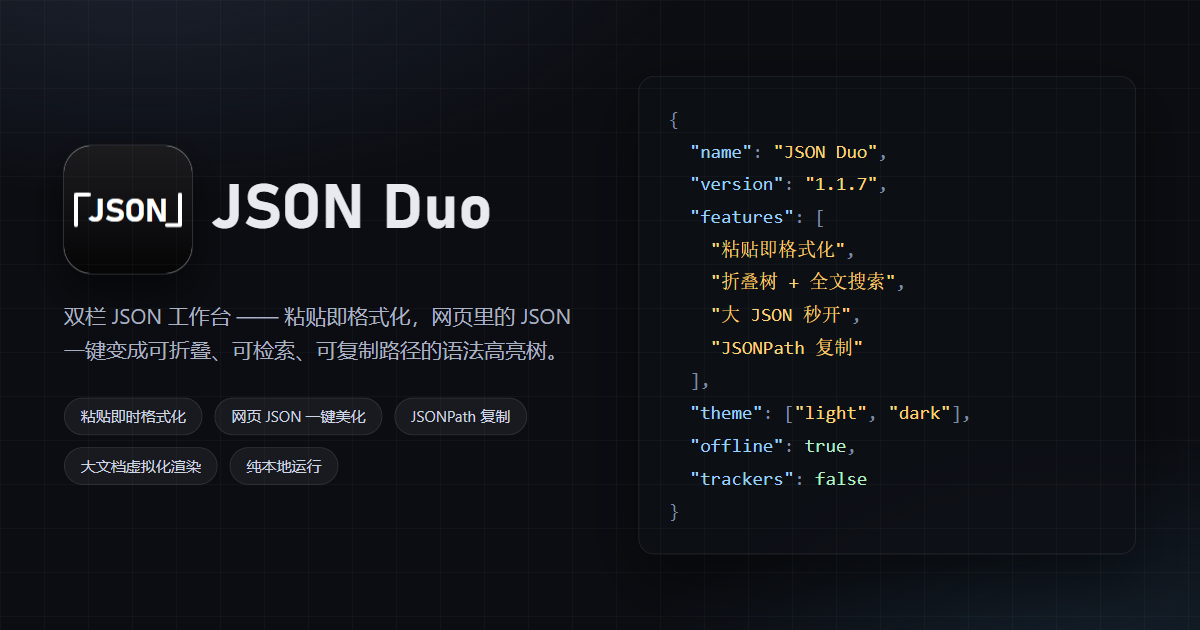
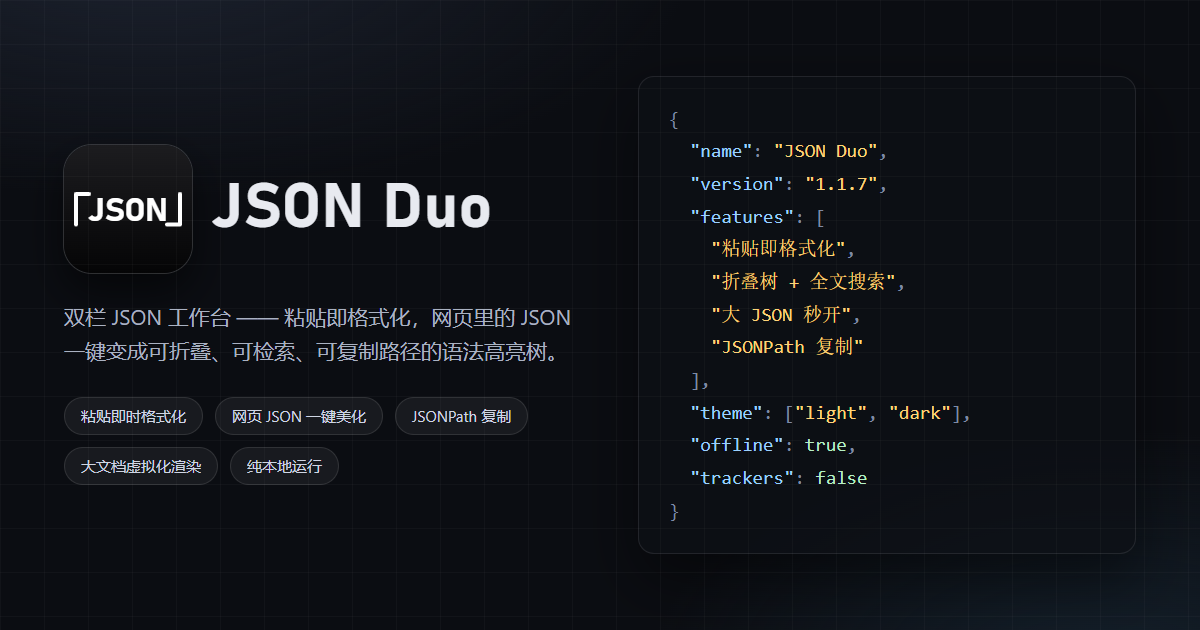
deploy: 深色主题一致性 + 图标白边修复上线（构建号 db88724c）
两处修复合并到一次部署：

- 深色主题一致性。系统深色时右栏树视图不跟着变深 —— viewer.js 里 applyTheme()
  读的媒体查询句柄声明在文档靠后，createViewer() 最前面就调用它，那一刻还是
  声明提升出来的 undefined，'auto' 于是恒折算成浅色。修法：句柄声明挪到
  createViewer() 顶部。同一根源还有一处镜像问题：手动选浅色时 applyPageTheme
  是删掉 <html data-theme> 属性而不是显式写 "light"，:not([data-theme="light"])
  照样命中深色块，变成「整页深、右栏浅」。两条都只在刷新后的首帧暴露。
- 图标圆角外白边修复，favicon 与 og-image 一并重出。

构建号 d5a8743c → db88724c，app.html / index.html / privacy.html 的引用随之更新，
上一代构建目录按惯例清理。

diff --git a/app.html b/app.html
@@ -12,9 +12,9 @@
   <meta property="og:description" content="双栏 JSON 工作台：左栏粘贴原文、右栏实时预览，可折叠树、搜索、JSONPath 复制，纯本地运行。">
   <meta property="og:image" content="https://lr3699.github.io/json-formatter-pro/og-image.png">
   <meta name="twitter:card" content="summary_large_image">
-  <link rel="icon" href="favicon.png?v=d5a8743c" type="image/png">
-  <link rel="stylesheet" href="assets/d5a8743c/editor.css">
-  <link rel="stylesheet" href="app.css?v=d5a8743c">
+  <link rel="icon" href="favicon.png?v=db88724c" type="image/png">
+  <link rel="stylesheet" href="assets/db88724c/editor.css">
+  <link rel="stylesheet" href="app.css?v=db88724c">
 </head>
 <body>
   <div class="aurora" aria-hidden="true">
@@ -25,7 +25,7 @@
 
   <header class="topbar">
     <div class="brand">
-      <img class="brand-mark" src="favicon.png?v=d5a8743c" alt="" width="32" height="32">
+      <img class="brand-mark" src="favicon.png?v=db88724c" alt="" width="32" height="32">
       <span class="brand-text">
         <b>JSON Duo</b>
         <em>粘贴即格式化 · 在线免安装</em>
@@ -216,14 +216,14 @@
     </section>
   </aside>
 
-  <script src="assets/d5a8743c/codemirror.bundle.js"></script>
-  <script src="assets/d5a8743c/defaults.js"></script>
-  <script src="assets/web-storage.js?v=d5a8743c"></script>
-  <script src="assets/d5a8743c/json-parser.js"></script>
-  <script src="assets/d5a8743c/rowmodel.js"></script>
-  <script src="assets/d5a8743c/viewer.js"></script>
-  <script src="assets/d5a8743c/bigview.js"></script>
-  <script src="assets/d5a8743c/editor.js"></script>
-  <script src="assets/web-settings.js?v=d5a8743c"></script>
+  <script src="assets/db88724c/codemirror.bundle.js"></script>
+  <script src="assets/db88724c/defaults.js"></script>
+  <script src="assets/web-storage.js?v=db88724c"></script>
+  <script src="assets/db88724c/json-parser.js"></script>
+  <script src="assets/db88724c/rowmodel.js"></script>
+  <script src="assets/db88724c/viewer.js"></script>
+  <script src="assets/db88724c/bigview.js"></script>
+  <script src="assets/db88724c/editor.js"></script>
+  <script src="assets/web-settings.js?v=db88724c"></script>
 </body>
 </html>

diff --git a/assets/db88724c/viewer.js b/assets/db88724c/viewer.js
@@ -431,6 +431,16 @@
     var opts = Object.assign({}, NS.DEFAULTS, userOptions || {});
     var parser = NS.parser;
 
+    /* 系统是否偏好深色。**必须声明在这里**（早于下面第一次 applyTheme()）：
+       applyTheme 靠它把 opts.theme === 'auto' 折算成 light / dark，而 var 声明会
+       提升但不初始化——它原本文档靠后的「主题与字号」段里，createViewer 最前面就
+       调用的 applyTheme() 读到的还是 undefined，于是 'auto' 恒被折算成 **light**：
+       整页看仍然是深的（editor.css 的深色块挂在 @media 里，:not([data-theme="light"])
+       照样命中），右侧树视图却拿到 data-theme="light" → 白底。
+       这就是「系统深色主题时右侧 JSON 区域不跟着变深」的根因。
+       只有系统主题**中途**变化时才正常（那时 mql 早已赋值）。 */
+    var mql = window.matchMedia ? window.matchMedia('(prefers-color-scheme: dark)') : null;
+
     var state = {
       text: '',
       root: null,
@@ -618,7 +628,7 @@
     }
 
     /* ---------------- 主题与字号 ---------------- */
-    var mql = window.matchMedia ? window.matchMedia('(prefers-color-scheme: dark)') : null;
+    /* mql 在 createViewer 顶部声明（必须早于第一次 applyTheme()，原因见那里） */
 
     function applyTheme() {
       var theme = opts.theme;

diff --git a/index.html b/index.html
@@ -5,18 +5,18 @@
   <meta name="viewport" content="width=device-width, initial-scale=1">
   <title>JSON Duo · 双栏 JSON 工作台</title>
   <meta name="description" content="JSON Duo：双栏 JSON 工作台。左栏粘贴原文、右栏实时预览；自动美化网页 JSON，语法高亮、可折叠树、路径复制、转义保留/还原、浅色与深色主题、一键复制或下载。">
-  <link rel="icon" href="favicon.png?v=d5a8743c" type="image/png">
+  <link rel="icon" href="favicon.png?v=db88724c" type="image/png">
   <meta property="og:title" content="JSON Duo · 双栏 JSON 工作台">
   <meta property="og:description" content="粘贴即格式化：语法高亮、可折叠树、JSONPath 复制、大文档秒开，纯本地运行。">
   <meta property="og:image" content="https://lr3699.github.io/json-formatter-pro/og-image.png">
   <meta property="og:type" content="website">
-  <link rel="stylesheet" href="style.css?v=d5a8743c">
+  <link rel="stylesheet" href="style.css?v=db88724c">
 </head>
 <body>
   <header class="top">
     <div class="wrap">
       <a class="brand" href="index.html">
-        <img class="brand-icon" src="favicon.png?v=d5a8743c" alt="" width="24" height="24">
+        <img class="brand-icon" src="favicon.png?v=db88724c" alt="" width="24" height="24">
         <span>JSON Duo</span>
       </a>
       <nav>

diff --git a/assets/db88724c/editor.js b/assets/db88724c/editor.js
@@ -1438,13 +1438,17 @@
    * 把主题作用到整个编辑页（不只是查看器面板）。
    * 在 <html> 上挂 data-theme，配合 editor.css 的 html[data-theme="dark"] 覆盖
    * 全部 token（--page/--panel/--text/--border 等），实现「全局深色」。
+   *
+   * 浅色必须**显式**写成 data-theme="light"，不能像以前那样把属性删掉了事：
+   * 「跟随系统」这层语义由两处的 @media 承担 —— editor.css 的
+   * `:root:not([data-theme="light"])` 与 app.css 的 `html:not([data-theme="light"])`。
+   * 属性一删，在系统是深色时这些选择器照样命中，整页仍按深色铺；而右栏树视图
+   * 拿到的是明确的 light → 「系统深色 + 手动选浅色」就变成整页深、右栏浅，
+   * 又是一次左右割裂（与「加载即系统深色、右栏不跟」正好互为镜像）。
    */
   function applyPageTheme(resolved) {
-    if (resolved === 'dark') {
-      document.documentElement.setAttribute('data-theme', 'dark');
-    } else {
-      document.documentElement.removeAttribute('data-theme');
-    }
+    document.documentElement.setAttribute('data-theme',
+      resolved === 'dark' ? 'dark' : 'light');
   }
 
   function applySettingsToViewer() {

diff --git a/privacy.html b/privacy.html
@@ -4,8 +4,8 @@
   <meta charset="utf-8">
   <meta name="viewport" content="width=device-width, initial-scale=1">
   <title>隐私政策 · JSON Duo</title>
-  <link rel="icon" href="favicon.png?v=d5a8743c" type="image/png">
-  <link rel="stylesheet" href="style.css?v=d5a8743c">
+  <link rel="icon" href="favicon.png?v=db88724c" type="image/png">
+  <link rel="stylesheet" href="style.css?v=db88724c">
 </head>
 <body>
   <header class="top">
